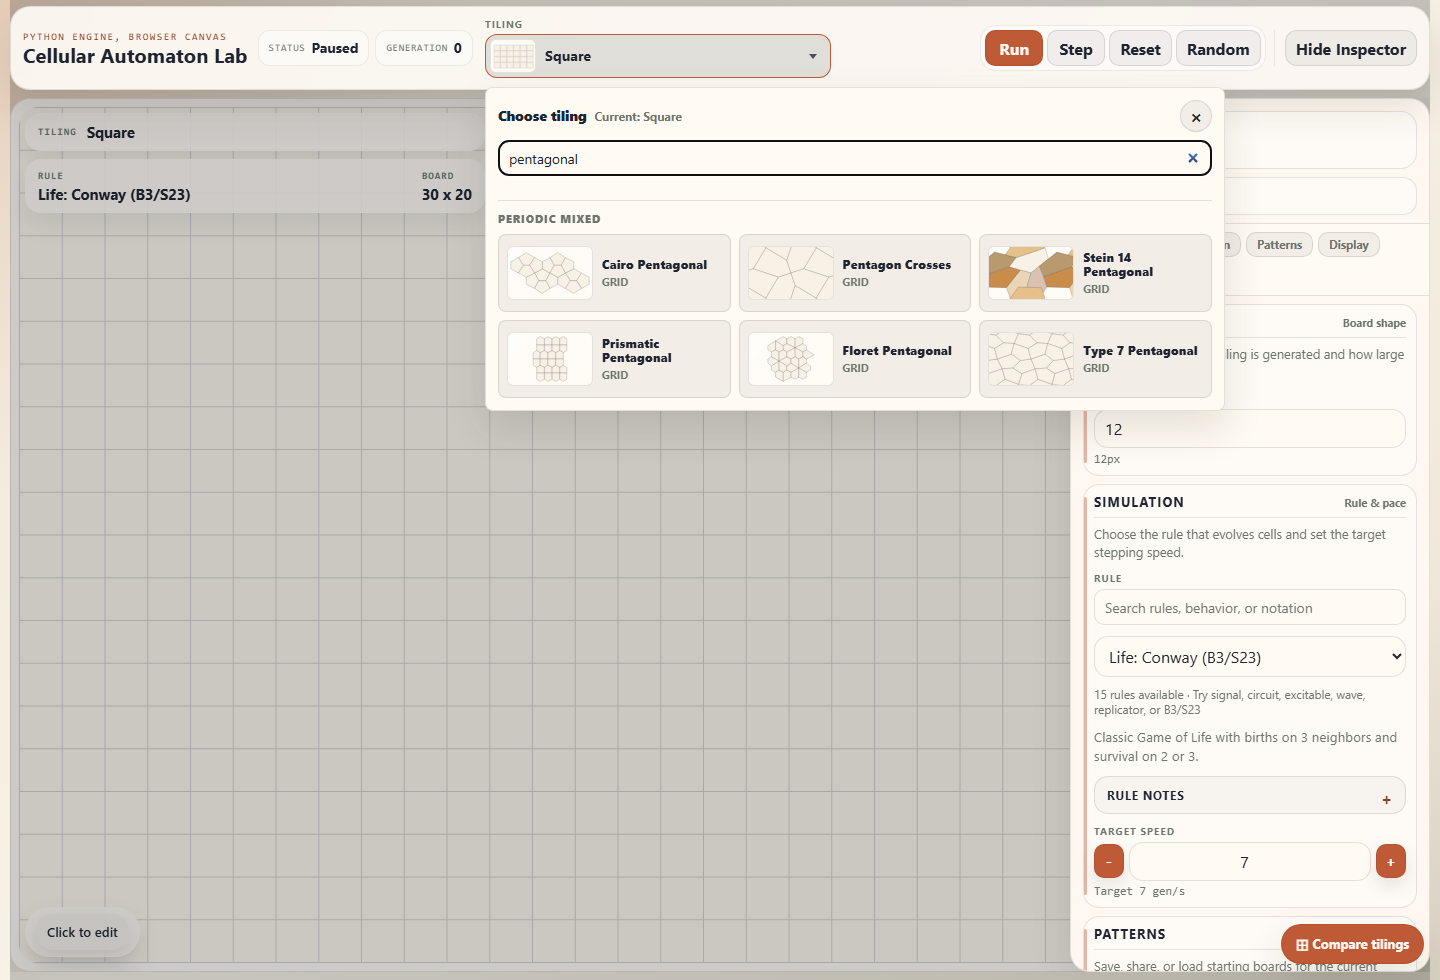
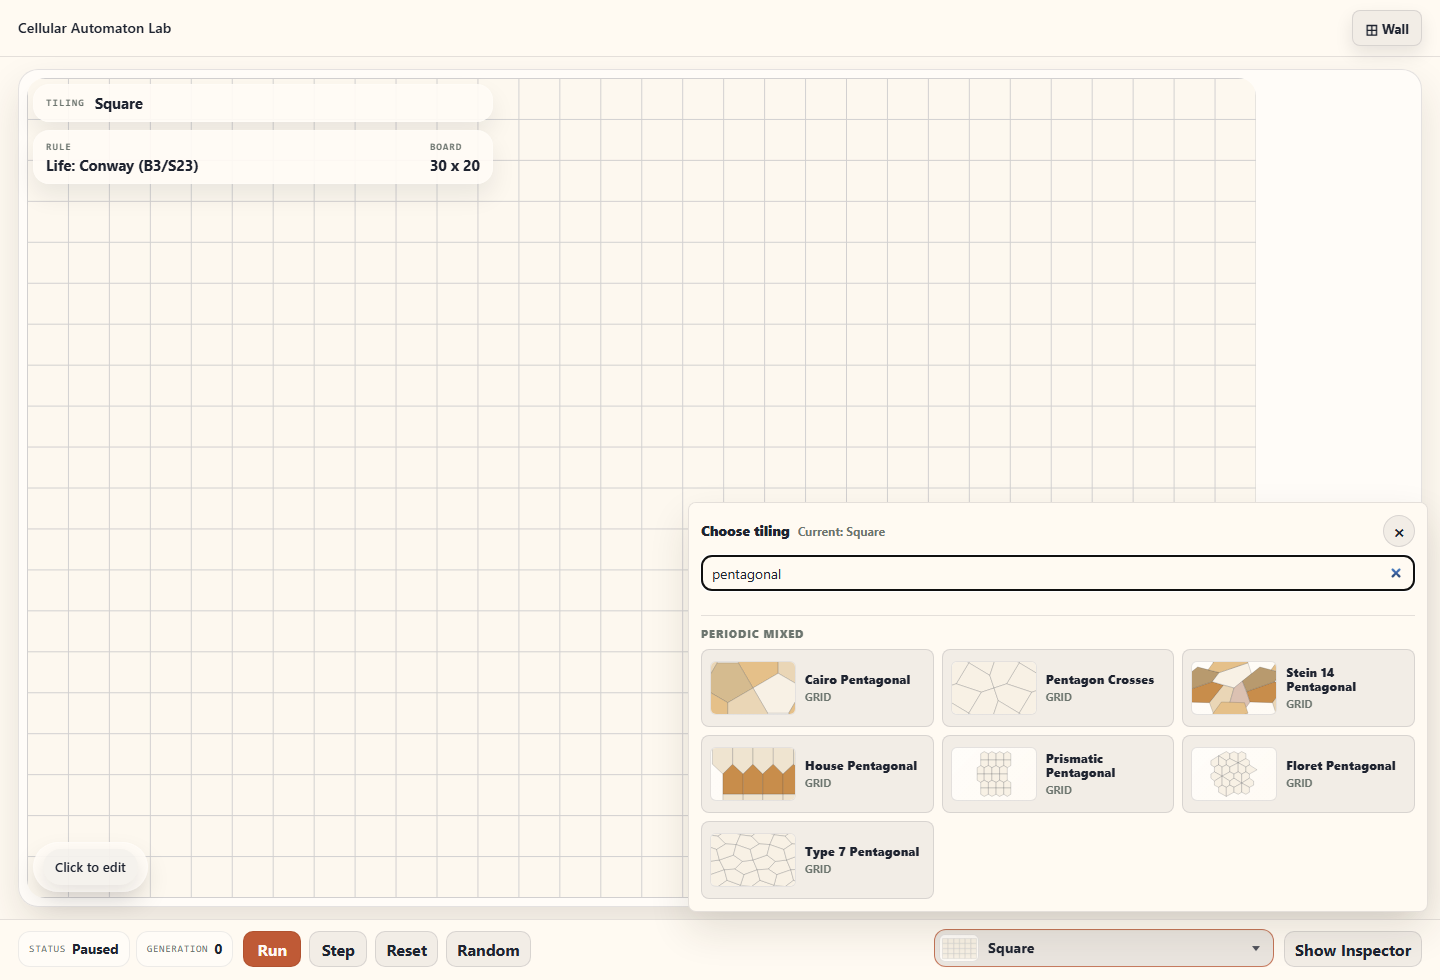
Prune dead top-bar CSS, re-cut budgets, refresh README screenshots and docs

diff --git a/static/css/styles.css b/static/css/styles.css
@@ -458,12 +458,15 @@ h1.wall-brand {
     min-height: 28px;
 }
 
-/* The picker menu opens upward from the dock. */
-.lab-dock .tiling-picker-menu {
-    top: auto;
-    bottom: calc(100% + 8px);
-    left: auto;
-    right: 12px;
+/* The picker menu opens upward from the dock; on narrow screens the mobile
+   full-screen menu rule (below) must win instead. */
+@media (min-width: 861px) {
+    .lab-dock .tiling-picker-menu {
+        top: auto;
+        bottom: calc(100% + 8px);
+        left: auto;
+        right: 12px;
+    }
 }
 
 .canvas-shell {
@@ -484,68 +487,6 @@ h1.wall-brand {
 
 :root[data-theme="dark"] .control-drawer {
     background: rgba(17, 23, 32, 0.98);
-}
-
-.top-bar {
-    padding: 10px 12px;
-    display: grid;
-    grid-template-columns: auto minmax(0, 1fr);
-    width: 100%;
-    max-width: 100%;
-    align-items: center;
-    gap: 10px;
-    position: relative;
-    z-index: 50;
-}
-
-.top-bar.is-tiling-picker-open {
-    z-index: 61;
-}
-
-.top-bar > * {
-    min-width: 0;
-}
-
-.top-bar-brand {
-    display: grid;
-    gap: 2px;
-    min-width: 148px;
-    flex: 0 0 auto;
-    align-content: center;
-}
-
-.eyebrow {
-    margin: 0;
-    text-transform: uppercase;
-    letter-spacing: 0.16em;
-    color: var(--accent-dark);
-    font-family: var(--mono);
-    font-size: 0.62rem;
-}
-
-h1 {
-    margin: 0;
-    font-size: clamp(1.02rem, 1.4vw, 1.45rem);
-    line-height: 1.05;
-}
-
-.top-bar-strip {
-    min-width: 0;
-    width: 100%;
-    max-width: 100%;
-    display: flex;
-    align-items: center;
-    justify-content: space-between;
-    gap: 12px;
-}
-
-.top-bar-summary {
-    display: flex;
-    flex-wrap: nowrap;
-    gap: 6px;
-    align-items: stretch;
-    flex: 0 0 auto;
-    min-width: 0;
 }
 
 .summary-chip,
@@ -588,48 +529,6 @@ h1 {
     letter-spacing: 0.02em;
 }
 
-.top-bar-controls {
-    display: flex;
-    flex-wrap: nowrap;
-    gap: 8px;
-    align-items: center;
-    justify-content: flex-end;
-    flex: 1 1 auto;
-    min-width: 0;
-}
-
-.top-bar-control-group {
-    display: flex;
-    align-items: center;
-    gap: 8px;
-    padding-left: 10px;
-    border-left: 1px solid var(--status-tile-line);
-}
-
-.top-bar-control-group:first-child {
-    padding-left: 0;
-    border-left: 0;
-}
-
-.top-bar-topology-group {
-    flex: 0 0 clamp(220px, 20vw, 300px);
-    min-width: 0;
-}
-
-.top-bar-tiling-control {
-    z-index: 8;
-}
-
-.top-bar-actions-group {
-    flex: 0 0 auto;
-    margin-left: auto;
-    gap: 4px;
-    padding: 4px;
-    border: 1px solid var(--status-tile-line);
-    border-radius: 16px;
-    background: var(--status-tile-bg);
-}
-
 .top-control {
     display: grid;
     gap: 4px;
@@ -639,11 +538,6 @@ h1 {
 
 .compact-select {
     min-width: 138px;
-}
-
-.top-bar-tiling-control {
-    width: 100%;
-    min-width: 0;
 }
 
 .top-control-label {
@@ -1110,14 +1004,6 @@ button.primary-action {
 
 button.primary-action:hover:not(:disabled) {
     background-color: var(--btn-primary-hover);
-}
-
-.top-bar-action {
-    min-width: 58px;
-    padding: 5px 10px;
-    border-radius: 10px;
-    box-shadow: none;
-    white-space: nowrap;
 }
 
 button.is-running {
@@ -2406,93 +2292,7 @@ button.theme-toggle .theme-icon-moon {
     }
 }
 
-@media (max-width: 1200px) {
-    .top-bar {
-        gap: 10px;
-    }
-
-    .top-bar-strip {
-        align-items: stretch;
-        flex-wrap: wrap;
-    }
-
-    .top-bar-controls {
-        width: 100%;
-        flex-wrap: wrap;
-        gap: 6px;
-    }
-
-    .top-bar-control-group {
-        flex-wrap: wrap;
-    }
-
-    .top-bar-actions-group {
-        margin-left: 0;
-    }
-
-    .top-bar-brand {
-        min-width: 132px;
-    }
-
-    .top-bar-tiling-control {
-        min-width: 0;
-    }
-}
-
 @media (max-width: 860px) {
-    .app-frame {
-        width: min(1400px, calc(100vw - 16px));
-        height: 100dvh;
-        min-height: 100dvh;
-        padding: 6px 0;
-        gap: 8px;
-    }
-
-    .top-bar {
-        padding: 12px;
-        display: flex;
-        flex-wrap: wrap;
-    }
-
-    .top-bar-brand,
-    .top-bar-strip,
-    .top-bar-summary,
-    .top-bar-controls {
-        flex-basis: 100%;
-        min-width: 0;
-    }
-
-    .top-bar-strip {
-        display: grid;
-        grid-template-columns: minmax(0, 1fr);
-        gap: 10px;
-    }
-
-    .top-bar-summary,
-    .top-bar-controls {
-        width: 100%;
-        max-width: 100%;
-        flex-wrap: wrap;
-    }
-
-    .top-bar-controls {
-        min-width: 0;
-        justify-content: flex-start;
-    }
-
-    .top-bar-control-group {
-        width: 100%;
-        min-width: 0;
-        padding-left: 0;
-        border-left: 0;
-        flex-wrap: wrap;
-    }
-
-    .top-bar-tiling-control {
-        width: 100%;
-        min-width: 0;
-    }
-
     .tiling-picker-control {
         grid-template-columns: minmax(0, 1fr);
         width: 100%;
@@ -2558,14 +2358,6 @@ button.theme-toggle .theme-icon-moon {
 
     .sync-pill {
         width: 100%;
-    }
-
-    .main-stage,
-    .main-stage.is-drawer-open {
-        display: grid;
-        grid-template-columns: minmax(0, 1fr);
-        height: 100%;
-        min-height: 0;
     }
 
     .canvas-shell {

diff --git a/frontend/controls/view-sections.ts b/frontend/controls/view-sections.ts
@@ -150,9 +150,6 @@ export function renderControlShell(elements: DomElements, viewModel: ControlsVie
     if (elements.ruleSummaryText) {
         elements.ruleSummaryText.textContent = viewModel.ruleSummaryText;
     }
-    if (elements.mainStage) {
-        elements.mainStage.classList.toggle("is-drawer-open", Boolean(viewModel.drawerVisible));
-    }
     if (elements.controlDrawer) {
         elements.controlDrawer.dataset.open = String(Boolean(viewModel.drawerVisible));
         elements.controlDrawer.setAttribute(

diff --git a/README.md b/README.md
@@ -14,7 +14,7 @@ Live standalone demo: [https://grgs.github.io/cellular-automaton-lab/](https://g
 
 **First time here?** [`docs/ONBOARDING.md`](docs/ONBOARDING.md) is a one-page decision tree -- find the row that matches what you want to do (run the app, add a tiling, use the topology library, etc.) and follow the link. The [`examples/`](examples/README.md) directory has short, runnable Python scripts for each major subsystem.
 
-![Compare results showing one acorn seed evaluated across representative tilings](docs/images/readme-compare-results-hero.png)
+![The comparison wall: one seed and rule playing in lockstep across four tilings](docs/images/readme-wall-hero.png)
 
 ## Project Scope
 
@@ -28,13 +28,17 @@ It is intended for comparing how familiar automata behave on different local nei
 - 16 built-in rules spanning Life-like, mixed-tiling, excitable, and signal systems
 - one shared `next_state(ctx)` rule protocol across all shipped topologies
 - canvas-first editing with brush, line, rectangle, fill, undo/redo, presets, and pattern import/export
-- wall-first UI: the app lands on the comparison wall (one seed and rule playing in lockstep across many tilings), zooms any board into a speaker view, forks a generation into a live editable board, and treats the single-board editor as the routed `#/lab` (also scriptable via `python -m tools tilings compare`)
+- wall-first UI in one shell: the app lands on the comparison wall (one seed and rule playing in lockstep across many tilings), zooms any board into a speaker view, and forks a generation into a live editable board; the single-board editor is the routed `#/lab` inside the same header/stage/dock shell and boots lazily (also scriptable via `python -m tools tilings compare`)
 - sparse pattern persistence keyed by stable topology cell IDs
 - TypeScript frontend in `frontend/` with Vitest unit tests and Playwright browser coverage
 
 ## Screenshots
 
-### Snub Trihexagonal mixed-tiling board with the inspector open
+### Analytical compare run with per-tiling metrics
+
+![Compare results showing one acorn seed evaluated across representative tilings](docs/images/readme-compare-results-hero.png)
+
+### Snub Trihexagonal mixed-tiling board in the Lab
 
 ![Snub Trihexagonal mixed Life](docs/images/readme-snub-trihexagonal-overview.png)
 
@@ -55,7 +59,7 @@ It is intended for comparing how familiar automata behave on different local nei
 - Switch to Penrose P1 and compare the `Distributed` and `Boat-Star` construction modes to see the difference between the distributed vertex-merge manifestation and the centered singular pentagrid patch.
 - Try the convex pentagonal periodic catalog with Cairo, Prismatic, Floret, Type 7, Stein 14, and Pentagon Crosses to compare how the same rule family behaves on distinct pentagon adjacencies.
 - Try Whirlpool or HexWhirlpool from the preset/showcase controls for a quick multi-state animation that exercises more than binary Life-like states.
-- Open the app on the comparison wall, press **Play side by side** to watch one seed evolve across the selected tilings, click a board to zoom into speaker view, and use **⑂ Fork this board live** to keep editing that generation while the others keep looping. Press **⊞ Wall** in the Lab to return, or open `#/lab` for the single-board editor directly.
+- Open the app on the comparison wall, press **Play side by side** to watch one seed evolve across the selected tilings, click a board to zoom into speaker view, and use the hero's **⑂ Fork live** to keep editing that generation while the others keep looping. Use the header's **Open the Lab →** / **⊞ Wall** to move between the wall and the single-board editor (`#/lab`).
 - Reload the standalone GitHub Pages demo after changing topology or state to check browser persistence without the Flask server.
 
 ## The Comparison Wall

diff --git a/docs/MAINTENANCE.md b/docs/MAINTENANCE.md
@@ -53,7 +53,7 @@ Any multi-line shell step that pipes a command whose exit code matters (`pytest 
 
 ## Public Release Process
 
-The first clean public release line started at `v0.1.0` and continues as an ongoing preview series; `v0.5.0` is the current shipped tag. The wall-first UI overhaul (comparison wall as the landing view, `#/lab` editor, live focus-pane fork, Split View retired) targets `v0.6.0`; it is unreleased on the tagged demo, so its route and layout changes ship as "new in 0.6.0" rather than breaking changes — only `#share=` board links predate it and stay working. The public release surface is:
+The first clean public release line started at `v0.1.0` and continues as an ongoing preview series; `v0.5.0` is the current shipped tag. The wall-first UI overhaul (comparison wall as the landing view, `#/lab` editor in the same one-page shell with a lazily booted controller, live focus-pane fork, Split View retired) targets `v0.6.0`; it is unreleased on the tagged demo, so its route and layout changes ship as "new in 0.6.0" rather than breaking changes — only `#share=` board links predate it and stay working. The public release surface is:
 
 - a tagged GitHub source release
 - the GitHub Pages standalone demo

diff --git a/TODO.md b/TODO.md
@@ -26,8 +26,11 @@ and live N-board view; the stage-first workspace with a docked transport on one
 shared clock; gallery ↔ speaker view with a deep-linkable `&focus=` slot; the
 wall as the bare-URL landing with a first-visit autoplaying demo; the editor as
 the routed `#/lab`; a speaker-view seed rail; per-board live forking into an
-independent editable pane (reusable `frontend/pane/` primitive); and the
-retirement of the two-editable-pane Split View.
+independent editable pane (reusable `frontend/pane/` primitive); the retirement
+of the two-editable-pane Split View; and the one-shell redesign that dissolved
+the Lab into the wall's page (one static header with a wall⇄Lab toggle, one
+bottom-dock idiom, the inspector drawer as a bottom sheet, and a lazily booted
+editor controller so wall landings never spin up the single-board editor).
 
 Decisions that held throughout:
 

diff --git a/docs/standalone-browser-runtime.md b/docs/standalone-browser-runtime.md
@@ -37,7 +37,7 @@ The public release line is a preview series: tagged GitHub source release plus t
 - `SimulationBackend` now includes `dispose()`.
 - The HTTP backend implements disposal as a no-op.
 - The standalone backend terminates the worker, removes its listeners, and rejects pending requests during disposal.
-- `AppController` now exposes `dispose()`, and `initApp()` returns the created controller.
+- `AppController` now exposes `dispose()`; `initApp()` resolves once the landing route is interactive (the editor controller itself boots lazily on first entry to `#/lab`).
 - Both server and standalone entrypoints install `pagehide` cleanup so browser teardown and Playwright tests can release the active controller explicitly.
 
 ## Build Commands

diff --git a/docs/CODE_MAP.md b/docs/CODE_MAP.md
@@ -54,7 +54,7 @@ For maintenance workflows and repo-owned guardrails, see [MAINTENANCE.md](./MAIN
 1. [frontend/server-entry.ts](../frontend/server-entry.ts)
    Canonical server host entrypoint.
 2. [frontend/app-runtime.ts](../frontend/app-runtime.ts)
-   `initApp(...)` creates the top-level controller and marks the app ready.
+   `initApp(...)` mounts the wall⇄Lab workspace router into the shared shell and marks the app ready once the landing route settles; the editor controller boots lazily on first entry to `#/lab`.
 3. [frontend/app-controller.ts](../frontend/app-controller.ts)
    `createAppController(...)` composes state, view, actions, sync, and interactions.
 4. [frontend/app-controller-startup.ts](../frontend/app-controller-startup.ts)
